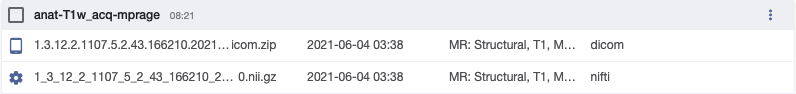
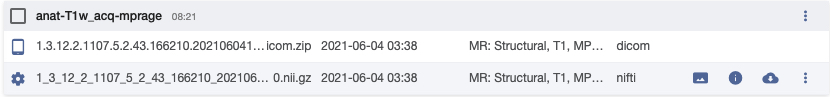
updated for bids curation gear v2.x

diff --git a/docs/flywheel/bids-curation.md b/docs/flywheel/bids-curation.md
@@ -29,7 +29,7 @@ Each acquisition is titled as they are listed on the scanner console. For exampl
     </figcption>
 </figure>
 
-When the DICOM is uploaded, Flywheel will also populate its metadata fields. The metadata can be viewed by clicking on the "Information" icon for a file (or any type of Flywheel data). 
+When the DICOM is uploaded, Flywheel will also populate its metadata fields. The metadata can be viewed by clicking on the "Information" icon, :material-information:, for a file (or any type of Flywheel data). 
 
 <figure class="double-border">
     <img src="../../img/bids-curation-flywheel-metadata.jpg" alt="Example of Flywheel metadata">
@@ -42,7 +42,7 @@ Exporting data at this stage will result in the a directory structure that follo
 
 ## BIDS Curation Gear
 
-The [BIDS Curation Gear](https://gitlab.com/flywheel-io/flywheel-apps/curate-bids) is software developed by Flywheel to help translate Flywheel metadata to BIDS compliant metadata. This allows the data to be downloaded from Flywheel in BIDS standard and allows other softare packages (e.g., [fmriPrep](https://fmriprep.org/en/stable/)) to easily process the data. Flywheel's [BIDS Curation Gear Documentation](https://docs.flywheel.io/hc/en-us/articles/1500006525322-BIDS-Curation-Gear) also provides additional information about the gear.
+The [BIDS Curation Gear](https://gitlab.com/flywheel-io/flywheel-apps/curate-bids) is software developed by Flywheel to help translate Flywheel metadata to BIDS compliant metadata. This allows the data to be downloaded from Flywheel in BIDS standard and allows other softare packages (e.g., [fMRIPrep](https://fmriprep.org/en/stable/)) to easily process the data. Flywheel's [BIDS Curation Gear Documentation](https://docs.flywheel.io/hc/en-us/articles/1500006525322-BIDS-Curation-Gear) also provides additional information about the gear.
 
 If you have a Project on Flywheel, navigate to the "Sessions" tab. From here you can check if the BIDS Curation Gear is available for your project by the following steps on Flywheel.
 
@@ -52,10 +52,10 @@ If you have a Project on Flywheel, navigate to the "Sessions" tab. From here you
         <img src="../../img/flywheel-run-gear.jpg" alt="BIDS Curation Run Gear button">
     </figure>
 
-2. A pop-up will appear, **select "Utility Gear"**.
+2. A pop-up will appear, **select "Analysis Gear"**.
 
     <figure class="double-border">
-        <img src="../../img/bids-curation-utility-gear.jpg" alt="BIDS Curation Utility Gear button">
+        <img src="../../img/flywheel-analysis-gear.jpg" alt="BIDS Curation Analysis Gear button">
     </figure>
 
 3. In the "Select Gear" dropdown menu, there should be a **"BIDS Curation"** option.
@@ -85,6 +85,15 @@ Custom template files should be attached as a the Project level file. This can b
     </figcaption>
 </figure>
 
+During [BIDS Curation Process at Step 2](bids-curation.md#bids-curation-process), you will have the opportunity to supply the "template" to be used during the curation process. The template file can be navigated to with Flywheel's file navigation system, similarly to this [example](https://docs.flywheel.io/hc/en-us/articles/360013235453). 
+
+<figure class="double-border">
+    <img src="../../img/bids-curation-config.jpg" alt="BIDS Curation Gear Configuration Menu">
+    <figcaption class="margin-1em">
+        Example of the BIDS Curation gear configuration menu.
+    </figcaption>
+</figure>
+
 ## BIDS Curation Process
 
 The BIDs curation process is well documented by Flywheel as a tutorial and is highly recommended that users read it before attempting on their own. Each step below links to the relevant documentation, but this page will attempt to highlight the main points of each stage.
@@ -94,17 +103,22 @@ The BIDs curation process is well documented by Flywheel as a tutorial and is hi
     2. Run the [dcm2niix: DICOM to NIfTI conversion Gear](https://github.com/flywheel-apps/dcm2niix)
     3. (*Optional*) Run the [CMRR: Extract CMRR Physio Gear](https://github.com/flywheel-apps/extract-cmrr-physio)
 
-2. [Run the BIDS Curation Gear](https://docs.flywheel.io/hc/en-us/articles/1500012005281-BIDS-curation-tutorial-part-2-running-the-BIDS-Curation-gear)
-    1. Run the BIDS Curation gear with desired configurations
+2. [Run the BIDS Curation Gear](https://docs.flywheel.io/hc/en-us/articles/1500012005281-BIDS-curation-tutorial-part-2-running-the-BIDS-Curation-gear#h_01FJCEKPWE9WBBV81VKTSFZ8ZD)
+    1. Run the BIDS Curation gear with desired configurations  
     2. Review "Provenance" for curation success or failure
     3. Review BIDS curated acquisitions with "BIDS View"
 
-3. (*Optional, unless curation failed*) [Troubleshooting](https://docs.flywheel.io/hc/en-us/articles/4402385363859-BIDS-curation-tutorial-part-3-troubleshooting-and-debugging)
+3. [Review the Curation Reports](https://docs.flywheel.io/hc/en-us/articles/4405065304723-BIDS-curation-tutorial-part-4-interpreting-the-curation-report)
+    1. Review the NIfTI spreadsheet (i.e., `*_niftis.csv`)
+    2. Review the Acquisitions spreadsheets (i.e., `*_acquisitions*.csv`)
+    3. (*Optional, if fmaps were collected*) Review the IntendedFor spreadsheet (i.e., `*_intendedfors.csv`)
+
+4. (*Optional, unless curation failed*) [Troubleshooting](https://docs.flywheel.io/hc/en-us/articles/4402385363859-BIDS-curation-tutorial-part-3-troubleshooting-and-debugging)
     1. Identifying a curation failure and read the curation log
     2. Adjust the BIDS Curation template to capture the error, either by:
         1. Modify the template to suit your needs <br>
         (and consider sharing a successful template fix with the CHN).
-        2. Contacting Kelly at for help.
-    3. Re-run the BIDS Curation gear
+        2. Contacting Kelly for help.
+    3. Repeat Steps 2 and 3.
 
 For further support regarding the BIDS curation process, please contact Kelly at <kchang4@uw.edu>.
